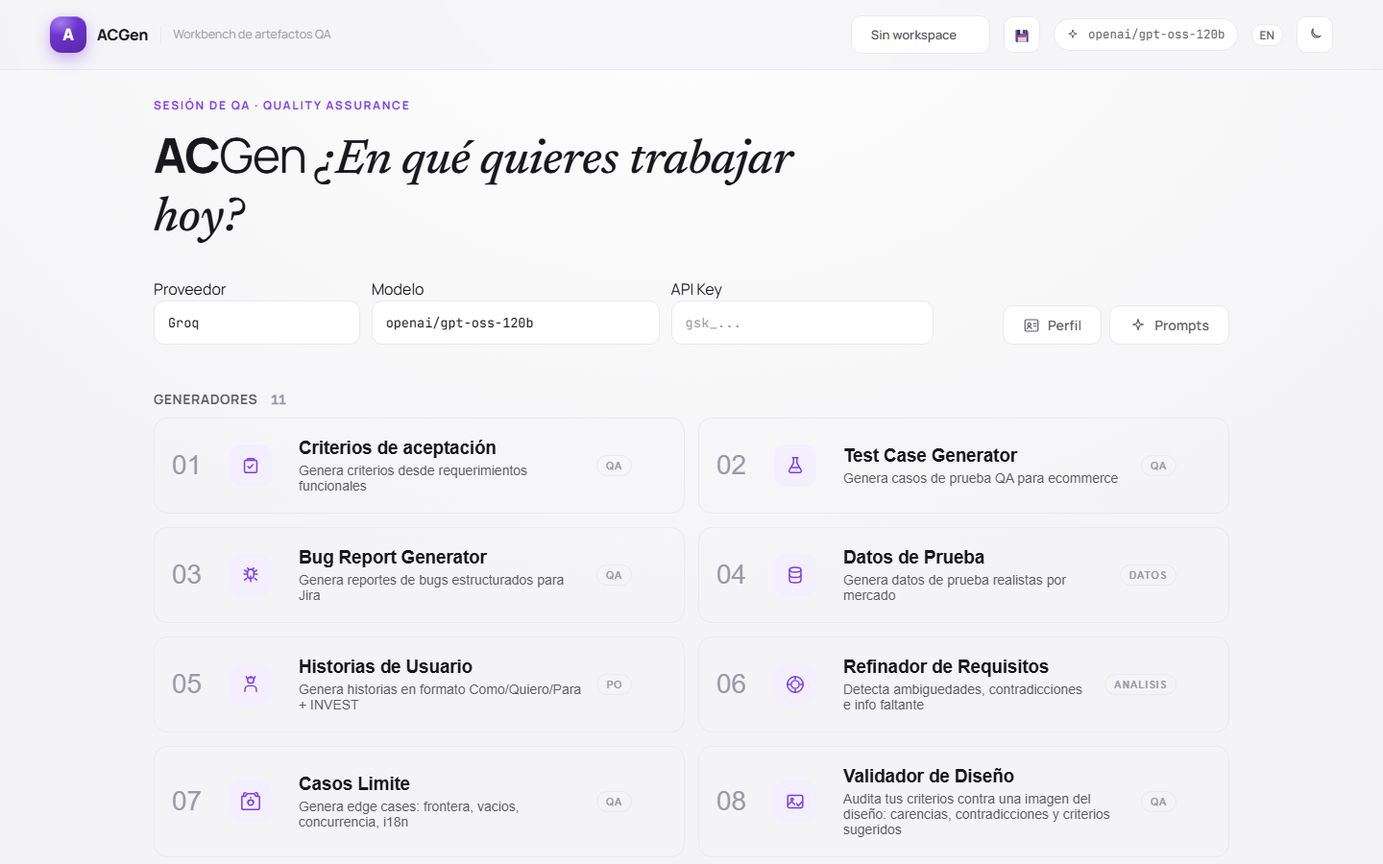
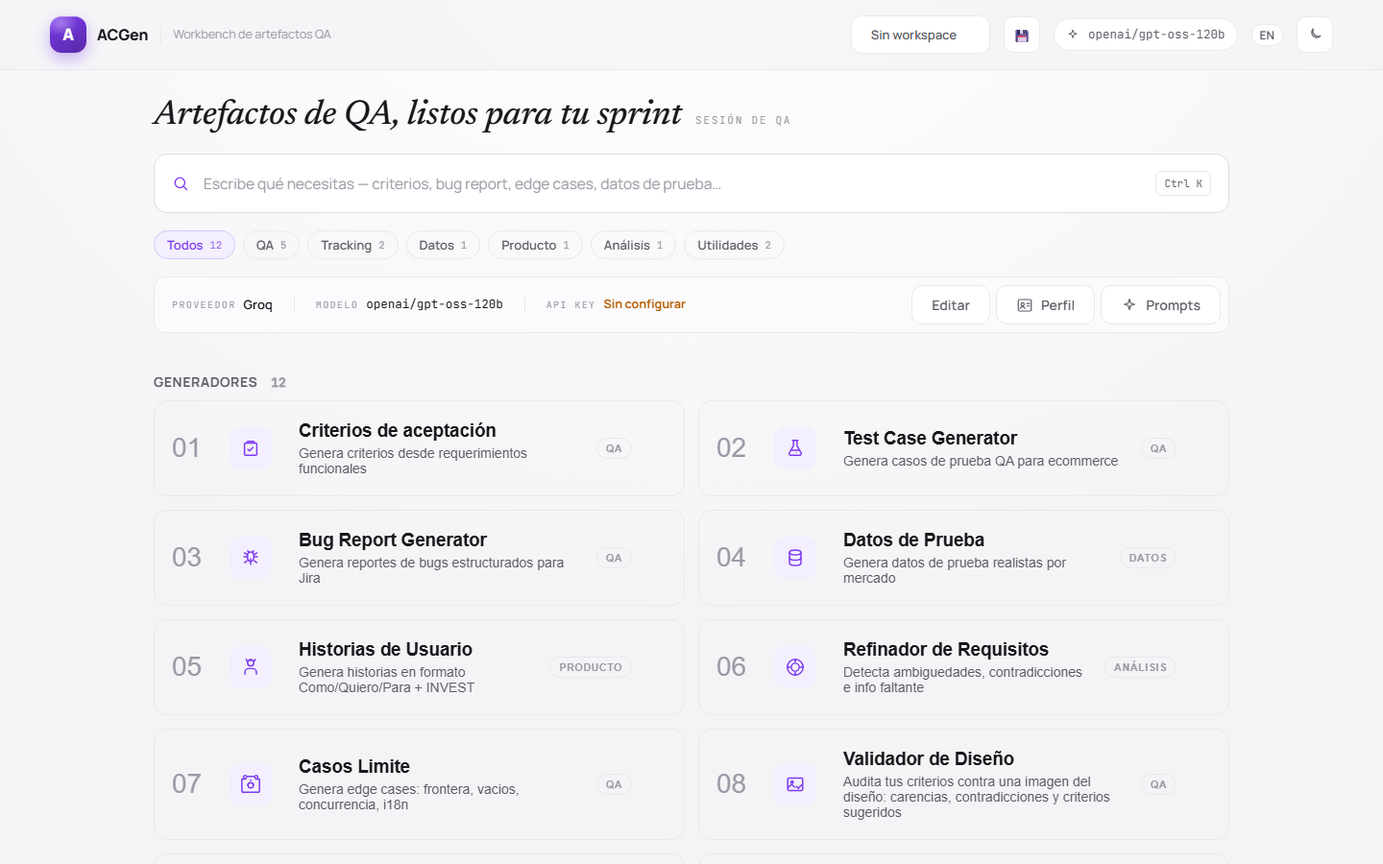
chore: auditoria de cierre — docs al dia, codigo muerto fuera
Sobre las cuatro PRs de la sesion (#45-#48) y sus dos fixes post-merge.
Dos auditores en paralelo (AGENTS.md, codigo muerto) mas revision propia
de README/GitHub/screenshot.

AGENTS.md llevaba 3 cifras desfasadas (total 713->714, shortcut.test.ts
3->4, DocLibrary.test.tsx 11->12) y 2 menciones de "11" que ya eran "12".
Contradiccion real en Known issues: la propia seccion decia desde el
2026-08-27 que dos pendientes se habian "caido de la lista por estar ya
resueltos" (markdown crudo del Refinador, prefill sin limpiar), pero las
dos entradas seguian escritas mas abajo, verbatim — verificado contra el
codigo que ambas SI estan resueltas, y retiradas. Las ultimas 5 filas de
Evolution history se habian apilado en orden cronologico inverso (mismo
patron de insercion que uso yo); reordenadas.

Codigo muerto: clave i18n landing.eyebrow huerfana en ambos idiomas
(se borro su regla .eyebrow en la #47, no la clave), 3 reglas CSS
huerfanas en un media query (br-compact-field*, td-form-row — deuda
vieja sin relacion con esta tanda), y dos iconos sin consumidor
Icon.eye/Icon.eyeOff (un toggle de contrasena que nunca se cableo).

README: cifra desfasada (713->714) y la captura de portada, que llevaba
desde el 19 de agosto — de antes del rediseno de la portada — regenerada
contra el diseno actual. GitHub: descripcion decia "eleven tools" sin
mencionar la Biblioteca de Documentacion; actualizada a doce.

714 tests, typecheck y lint verdes.
[…]

diff --git a/src/components/Icons.tsx b/src/components/Icons.tsx
@@ -53,19 +53,6 @@ export const Icon = {
       <path d="M5.5 12v6c0 1.55 2.9 2.8 6.5 2.8s6.5-1.25 6.5-2.8v-6" />
     </Svg>
   ),
-  eye: (p: SvgProps) => (
-    <Svg sw={1.6} {...p}>
-      <path d="M2.5 12S6 5.5 12 5.5 21.5 12 21.5 12 18 18.5 12 18.5 2.5 12 2.5 12Z" />
-      <circle cx="12" cy="12" r="3" />
-    </Svg>
-  ),
-  eyeOff: (p: SvgProps) => (
-    <Svg sw={1.6} {...p}>
-      <path d="M3 3l18 18" />
-      <path d="M10.6 6.1A11 11 0 0 1 12 6c6 0 9.5 6 9.5 6a17.7 17.7 0 0 1-2.9 3.5M6.4 7.6A17.7 17.7 0 0 0 2.5 12S6 18 12 18a10.8 10.8 0 0 0 3.9-.7" />
-      <path d="M9.9 9.9a3 3 0 0 0 4.2 4.2" />
-    </Svg>
-  ),
   sun: (p: SvgProps) => (
     <Svg {...p}>
       <circle cx="12" cy="12" r="3.8" />

diff --git a/src/App.css b/src/App.css
@@ -784,14 +784,6 @@ body {
   .br-root {
     min-height: 0;
   }
-  .br-compact-field,
-  .br-compact-field-wide {
-    min-width: 100%;
-    max-width: 100%;
-  }
-  .td-form-row {
-    grid-template-columns: 1fr;
-  }
 }
 
 /* === SPRINT TRACKER === */

diff --git a/AGENTS.md b/AGENTS.md
@@ -82,12 +82,12 @@ Unit tests with Vitest + React Testing Library. Hooks with non-trivial logic are
 | `src/components/DesignValidatorTool.test.tsx` | 11 — generates and renders the three report sections, Ctrl+Enter with everything ready triggers generation, sends a `ContentPart[]` with the text and the image to `streamWithGroq`, Generar stays disabled without an attached image, a model without vision support shows a warning, disables Generar and offers the model switch, the custom provider shows an "can't verify" warning but still allows generating, shows the privacy note (the image travels to the provider), Limpiar followed by Deshacer also restores the attached image, without an API key a vision provider with an attached image shows the missing-key warning and disables Generar, the image's base64 never touches localStorage, an invalid report shape shows the i18n error |
 
 | `src/components/ConverterTool.test.tsx` | 3 — swapping formats permutes the two selects without touching the text when there is no result yet, and moves the result into the source pane (clearing the right one) when there is; Copiar and Descargar stay disabled until there is a result |
-| `src/utils/shortcut.test.ts` | 3 — Command glyph on Mac and iPad, `Ctrl+Enter` on Windows, and the same fallback on any other platform |
+| `src/utils/shortcut.test.ts` | 4 — Command glyph on Mac and iPad, `Ctrl+Enter` on Windows, the same fallback on any other platform, and `paletteShortcutLabel` (same criterion: Cmd on Mac, Ctrl elsewhere) |
 | `src/components/EdgeCaseTool.test.tsx` | 5 — empty state names the three columns, Copiar tabla disabled with no results, the header groups the per-category count (one `.ec-cat` per distinct category, not per row), the copied TSV carries a header and collapses tabs/newlines inside a cell so one case stays one row, and the model badge only appears after generating |
-| `src/components/DocLibrary.test.tsx` | 11 — welcome empty state teaches the "Nombre - URL" paste, add persists to `acgen_doclinks`, save disabled without name or url, pasting "Nombre - URL" into the URL field fills both fields, the row is a real `<a target="_blank">` with the exact URL, category chips derive with counts and toggle, accent-insensitive search with the N/M counter, favorite floats the link to the top and the Favoritos chip filters, edit reuses the form and persists, delete confirms (cancel keeps the link), no-matches message distinct from the welcome state |
+| `src/components/DocLibrary.test.tsx` | 12 — welcome empty state teaches the "Nombre - URL" paste, add persists to `acgen_doclinks`, save disabled without name or url, pasting "Nombre - URL" into the URL field fills both fields, the row is a real `<a target="_blank">` with the exact URL, a URL saved in raw "Nombre - URL" form (name typed before pasting, so the autofill never fired) still shows the SnapLink label and opens the exact URL — the post-merge fix Jorge's own links needed, category chips derive with counts and toggle, accent-insensitive search with the N/M counter, favorite floats the link to the top and the Favoritos chip filters, edit reuses the form and persists, delete confirms (cancel keeps the link), no-matches message distinct from the welcome state |
 | `src/components/RefinerTool.test.tsx` | 8 — findings summary (4: counts the bullets under each heading in the format `REFINER_PROMPT` asks for, also recognises `###` headings, renders no card when the model answers in prose without categories, ignores declared categories left without bullets); plain-text output (2: markdown syntax is stripped without losing the bullets, and the summary still counts correctly once stripped); panes (2: the character counter tracks the requirement, Copiar only appears once there is an analysis) |
 
-**Total: 713 tests across 67 files.**
+**Total: 714 tests across 67 files.**
 
 Run `npm test` before committing when modifying hooks or services.
 
@@ -105,13 +105,13 @@ Run `npm test` before committing when modifying hooks or services.
 - **Streaming**: `streamWithGroq()` async generator yields tokens progressively. `useStreamingResponse()` hook manages state. Supports optional `anonymizeMap` for confidential mode and `baseUrl` for multi-provider.
 - **Design tokens**: `:root` invariants + `[data-theme="light"]` / `[data-theme="dark"]` in `App.css`. Key tokens: `--accent` (purple), `--bg`, `--surface`, `--border`, `--text`, `--text-2`, `--text-3`, `--radius` (16px), `--radius-sm` (11px), `--shadow-sm/md/lg`. Fonts: Manrope, Newsreader italic, JetBrains Mono.
 - **Theme**: light/dark via `[data-theme]` on `<html>`. Applied synchronously from localStorage before paint. Toggle in Header.
-- **i18n**: `I18nContext` + `useT()` hook. `es.json` and `en.json` (428 keys, exact parity, guarded by `src/i18n/keyParity.test.ts`). Language toggle in Header (ES|EN). Detects browser language on first visit. Missing keys fall back to Spanish. Parameter interpolation supported.
+- **i18n**: `I18nContext` + `useT()` hook. `es.json` and `en.json` (427 keys, exact parity, guarded by `src/i18n/keyParity.test.ts`). Language toggle in Header (ES|EN). Detects browser language on first visit. Missing keys fall back to Spanish. Parameter interpolation supported.
 - **SVG Icons**: `src/components/Icons.tsx` exports `Icon` object with named components. All 24x24, stroke-based, `currentColor`, `strokeWidth` 1.6.
 - **Shared CSS**: form fields, buttons, tables, badges, modal overlay, action bar, model badge, searchable select, sprint spreadsheet, error boundary fallback, toast, update banner in `App.css`. `.tool-head`/`.tool-head-aside` is the current header pattern for a tool screen (richer than the older `.tool-page-title`). The pre-redesign `.tool-split`/`.actions-col`/`.result-box`/`.tool-fill` family is **gone**: `EdgeCaseTool` was its last consumer and the Casos Limite redesign removed both the markup and the rules (including their `@media` overrides).
 - **Per-screen CSS families**, one per redesigned tool, each self-contained near the end of `App.css`: `.us-*` (Historia de Usuario), `.dv-*` (Validador), `.cv-*` (Conversor), `.sp-*` (Sprint list), `.rf-*` (Refinador), `.ec-*` (Casos Limite), `.ld-*` (portada/console), `.dl-*` (Doc Library), plus the older `.br-*` (Bug Report), `.td-*` (Datos de Prueba), `.tc-*` (Casos de Prueba) and `.criteria-*`. **The `@media (max-width: 1200px)` block must stay last in the file** — the base `.sidebar` / `.app-layout .container` rules live around line 1000 and win by cascade otherwise. New families go *before* it.
 - **PWA**: `vite-plugin-pwa` with `prompt` register type, manifest, icons (192+512), workbox static precache of JS/CSS/HTML/fonts. Update flow is manual (`virtual:pwa-register` wired in `useAppUpdate.ts` with `immediate: true`, not the plugin's auto-injected script): the new service worker installs but waits (`skipWaiting: false`, gated behind the `SKIP_WAITING` message); `<UpdateBanner>` appears when `onNeedRefresh` fires and only reloads when the user clicks "Actualizar". **`clientsClaim: true` is load-bearing**: in prompt mode the plugin doesn't set it, and without it the newly-activated SW never takes control of already-open pages, `controllerchange` never fires and the button silently does nothing (found live by Jorge). `reload()` is belt-and-suspenders: `updateServiceWorker(true)` + a `controllerchange` listener that reloads via `reloadPage()`, plus a 2s fallback reload for uncontrolled pages (e.g. after a hard refresh) — the button always behaves as a guaranteed reload. A background check (`registration.update()`) runs every hour so a tab left open still notices new deploys.
 
-## Tools (11 total)
+## Tools (12 total)
 
 ### Generar (Generate)
 
@@ -388,7 +388,7 @@ Run `npm test` before committing when modifying hooks or services.
 | `src/utils/highlight.tsx` | `highlightMatches()` / `containsMatch()` / `MARK_STYLE` — search highlighting in the Regression Tracker |
 | `src/components/Header.tsx` | Brand, WorkspacePicker, ProviderConfig, Model badge, theme toggle, language toggle |
 | `src/components/Sidebar.tsx` | Collapsible tool nav grouped by category, workspace name, profile editor link, prompt editor link |
-| `src/components/LandingScreen.tsx` | Console landing (2a): serif headline, Ctrl/Cmd+K search (accent-insensitive, Enter opens a single result), family filter chips with counts, status strip (provider · model · key state) with an Editar toggle that mounts `ProviderConfig` collapsed, 11-tool grid unchanged; `.ld-actions` (Editar/Perfil/Prompts) mounting `<ProfileEditor>`/`<PromptEditor>` |
+| `src/components/LandingScreen.tsx` | Console landing (2a): serif headline, Ctrl/Cmd+K search (accent-insensitive, Enter opens a single result), family filter chips with counts, status strip (provider · model · key state) with an Editar toggle that mounts `ProviderConfig` collapsed, 12-tool grid unchanged; `.ld-actions` (Editar/Perfil/Prompts) mounting `<ProfileEditor>`/`<PromptEditor>` |
 | `src/components/ErrorBoundary.tsx` | Class component with recoverable fallback |
 | `src/components/Icons.tsx` | SVG icon components |
 | `src/hooks/useLocalStorage.ts` | Generic localStorage hook with cross-instance/-tab sync |
@@ -467,11 +467,9 @@ Pending items, none blocking a release. Reverificados uno a uno contra el códig
 
 **Anteriores, todos confirmados vigentes:**
 
-- The Refiner still shows raw markdown (`###`, `**`) — out of scope by Jorge's explicit decision when the same issue was fixed for Historia de Usuario (2026-08-14, PR #24). `src/utils/stripMarkdown.ts` already exists and handles bold/headings/italics/inline-code/rules/tables; wiring it into `RefinerTool.tsx` the same way `UserStoryTool.tsx` does it would close this if ever requested. The project still has no true markdown *renderer* (no `marked`, no `react-markdown`, no `dangerouslySetInnerHTML`) — `stripMarkdown` strips the syntax rather than rendering it, which is what was asked for.
 - `src/config/demoData.ts` still carries pre-productization literals (`maria@qa`, `Test1234`, Pro/ES) instead of the profile's placeholders; there's no demo mode for `designvalidator` (would require a bundled sample image) — won't-fix for now.
-- `hasSignificantData()` (`backup.ts`) doesn't count a customized project profile or a prompt override as "significant data" — the backup reminder never fires for a user who has only touched those.
+- `hasSignificantData()` (`backup.ts`) doesn't count a customized project profile or a prompt override as "significant data" — the backup reminder never fires for a user who has only touched those. **Widened by PR #48**: it doesn't check `acgen_doclinks` either, so a user who only ever uses the Doc Library never gets the reminder even after saving dozens of links.
 - Vision calls (`designvalidator`) show only the button's spinner — the streamed text is buffered and unused until the response completes — which feels slow on large images.
-- `prefill` is never cleared in `App.tsx` after a chained navigation consumes it, so re-entering a tool after chaining re-injects the stale text (pre-existing, shared with testcase/edgecase, not new to this session).
 - `<PromptEditor>`'s heading is a hardcoded Spanish literal — `PromptEditor.tsx:61` renders `<h2>Editor de Prompts</h2>` rather than an i18n key, so an English user now clicks a button labelled "Prompts" on the landing and gets a Spanish-headed modal. Fixing it needs a new i18n key, which this branch was constrained from adding.
 - Neither `<ProfileEditor>` nor `<PromptEditor>` closes on `Escape` or traps focus — pre-existing in both, but reachable by more users now that the landing exposes them.
 
@@ -534,8 +532,10 @@ Pending items, none blocking a release. Reverificados uno a uno contra el códig
 | Rediseño de layout: botonera lateral, cajas de resultado y responsive (PR #33) | 2026-08-20 | Petición directa de Jorge, iterada pantalla a pantalla con capturas suyas. Las 7 herramientas de generación/refinado (Criterios, Casos de Prueba, Bug Report, Hist. de Usuario, Refinador, Casos Límite, Validador de Diseño) pasan de botonera horizontal centrada bajo las cajas a **columna vertical a la derecha de la caja de entrada** (`.tool-split` flex + `.actions-col` de 170px con botones a ancho completo), **Generar siempre en última posición** (orden: Confidencial → Ver ejemplo → Historial → Limpiar → Generar → loading-status). `.actions-bar` NO se tocó a propósito — Conversor, Datos de Prueba, SprintList y SprintDashboard la comparten y conservan su fila horizontal (verificado). Criterios aloja la columna al inicio de `.criteria-right` (centrada con `margin: 0 auto`, encima del panel de razonamiento condicional); Bug Report junto a la descripción, con los campos compactos arriba a lo ancho. **Caja de resultados siempre visible** (`.result-box`: borde/superficie como los campos, scroll interno) en las 4 herramientas que pintaban el output en flujo libre — placeholder i18n hasta que caen los resultados (streaming incluido en UserStory/Refiner; tabla en EdgeCase; informe en Validador; el ChainMenu queda dentro). 4 claves i18n nuevas ×2 idiomas (`*.outputPlaceholder`; 318 → 322, paridad mantenida). **Cero espacio muerto vertical**: raíz de cada tool en flex column con `min-height: calc(100vh - 128px)` (`.tool-fill`, `.br-root`, `.criteria-left`) y la caja de salida absorbe el sobrante con `flex: 1` — se adapta a cualquier alto de monitor en vez de usar alturas fijas. **Responsive coherente**: mínimos con `clamp()` en todas las cajas (en 1080p con zoom 125% de Windows ya no desborda), tope de 2100px centrado en `.app-layout .container` para ultrapanorámicos (3440×1440: adiós textareas de 3000px), breakpoint nuevo a 1200px (padding 20px, columna 150px, sidebar 190px) y el de 768px existente colapsa la columna a fila envuelta bajo la caja y resetea los `min-height` de viewport. **Gotcha de cascada CSS cazado en la auditoría de cierre, antes del commit**: el bloque `@media (max-width: 1200px)` estaba a mitad de fichero y sus reglas `.app-layout .container`/`.sidebar` eran letra muerta — las reglas base viven MÁS ABAJO en `App.css` (~línea 1000) con la misma especificidad y ganaban por orden; el bloque vive ahora al final del fichero con un comentario que explica por qué. Los tests no asertan estructura de botonera (consultan por nombre accesible), así que 658/658 pasaron sin tocar ninguno; typecheck y build de producción limpios. **Verificación en navegador** (dev y producción): 34/34 asertos de layout (columna presente y a la derecha, botones en vertical, Generar último, tools fuera de alcance intactas, colapso a 700px), 77/77 responsive (7 viewports × 7 tools: 3440/2560/1920/1536/1366/1024/768, sin scroll horizontal ni hueco muerto), y los 5 browser-checks del repo (38 asertos de trackers/streaming) re-corridos contra producción sin regresión, cero errores de consola. Bundle de producción `index-Cpjk9bkq.js`, idéntico al build local de main. |
 | Rediseño pantalla a pantalla, primera tanda (PRs #34-#38) | 2026-08-27 | Diseños aportados por Jorge como ficheros sueltos en su Desktop, integrados uno a uno. **Criterios** (#34): dos columnas, campos etiquetados a la izquierda y panel de resultado a toda altura a la derecha; diverge a propósito del patrón de botonera vertical de la #33, señalado y aceptado. Se cablearon por i18n 4 textos que venían hardcodeados en español y rompían la versión EN. **#35**: título de página en Criterios (`.tool-page-title`) y el panel pasa a llamarse "Resultado" para no duplicarlo. **Casos de Prueba** (#36): estrena `.tool-head` (h1 + subtítulo + badge de modelo), barra de acciones a todo el ancho y panel siempre visible con `th` sticky — `.tool-head` es desde aquí el patrón preferido. **Bug Report** (#37): tarjeta de entorno en grid con campos que conmutan por plataforma, panel del reporte a toda altura, breakpoint propio a 900px; más un fix de producto que Jorge detectó en vivo — la fecha del esqueleto salía `15-07-2026` porque el **prompt** por defecto pedía DD-MM-YYYY, no porque el componente la inyectara mal (ojo: los prompts admiten override en localStorage, así que a quien lo tuviera personalizado no le aplica hasta "Restaurar por defecto"). **Datos de Prueba** (#38): tarjeta de parámetros, panel con contador y export en cabecera. En los dos últimos apareció un patrón de defecto que conviene vigilar en cualquier drop: **los estados vacíos reutilizaban el placeholder de un campo de ENTRADA como subtítulo** ("Pega aquí información adicional…" en un panel de resultados); corregido con claves propias `*.emptyHint`. |
 | Rediseño pantalla a pantalla, segunda tanda (PRs #39-#44) | 2026-08-27 | **Historia de Usuario** (#39): modo Guiado/Texto libre, guiado por defecto. Se mergeó **con main en rojo** — el cambio de modo inicial rompió dos tests que buscaban por placeholder y por `getAllByRole('textbox')[0]`, y nadie lo vio hasta la sesión siguiente; arreglado en `d7aa948`. **Validador** (#40, #41): `.dv-*`, y tras revisarlo Jorge en local, reparto 3:2 criterios/imagen. **Conversor** (#42): barra origen→destino con intercambio, dos paneles, y funciones nuevas (intercambiar, copiar, descargar); se cableó `converter.formatText` porque "Texto plano" salía en español con la UI en inglés. **Sprint** (#43): el drop traía **solo CSS e i18n, sin componente**, así que `SprintList` se derivó del CSS; cambia el gesto de navegación (clic selecciona, "Abrir tablero" abre) y se extrajo `src/utils/ticketLink.ts`. Jorge pidió dos ajustes al verlo: `.sp-panel` dejó de estirarse (`flex: none`) porque dibujaba un marco medio vacío, y el hueco restante se rellenó con los paneles de Actividad reciente y Por squad. **Refinador** (#44): paneles Antes/Después, tarjeta de hallazgos, Copiar nuevo, y `stripMarkdown` cableado — cierra un pendiente que venía de la #24. **Constante en las seis: cada drop traía ficheros VIEJOS que habrían revertido lo ya desplegado** (el de #42 cinco, el de #43 su propio App.css pre-#42, el de #44 un snapshot pre-#43). Los ficheros del drop vienen con LF y los del repo con CRLF, así que `diff` a secas exagera el ruido a miles de líneas: usar `diff --strip-trailing-cr`, y comprobar tras aplicar que el diff de `App.css` tiene **cero líneas borradas**. 658 → **681 tests**, 335 → **388 claves** i18n. Bundle en producción `index-C6ThGCjI.js`. |
-| Biblioteca de Documentación (PR #48) | 2026-08-28 | Primera herramienta NUEVA desde la Fase 2 (view `doclibrary`, la 12ª), nacida de una consultoría de "qué le falta a un QA": Jorge dijo "utilizo mucha documentación como URL". 100% offline: enlaces {name, url, category, favorite} en `acgen_doclinks` — el backup la cubre solo porque snapshotea todo `acgen_*`. Diseño con el lenguaje ya fijado: `.tool-head`, chips estilo portada (**`.ld-chip` pasa a ser clase compartida** portada↔docs, anotado en Shared CSS), lista con acciones en hover, form de alta/edición único. Categorías = texto libre por enlace, chips derivados con recuento (sin lista que gestionar, YAGNI); favoritos arriba; búsqueda sin acentos (mismo `norm()` que la portada); pegar "Nombre - URL" en el campo URL rellena ambos vía `parseUrlCell` compartido. Icono `Icon.docs` nuevo (libro abierto). La portada pasa a 12 tarjetas (Utilidades 2) y Sidebar gana la entrada en SEGUIMIENTO. 702 → **713 tests / 67 ficheros** (`DocLibrary.test.tsx` 11, validado por mutación sobre la normalización de acentos; los 3 asertos de "11 tarjetas" del landing pasan a 12 — el de "Regression = nº 11" sigue válido porque la numeración es de catálogo y docs entra la 12ª), 410 → **428 claves** i18n. Verificado en navegador: 14/14 checks, cero errores de consola. |
-| Rediseño de la portada (PR #47) | 2026-08-28 | Diseño 2a "consola + tarjetas", y esta vez el drop venía CON spec (`implementacion-2a-landing.md`) que ya advertía qué ficheros eran viejos y pedía no copiar App.css ni los JSON enteros. La portada pasa a: titular serif de una línea + buscador con **Ctrl/Cmd+K** (sin acentos vía NFD, Enter abre si queda un único resultado, Escape limpia) + chips de familia con recuento (`family` sustituye a `tag` en `tools[]`) + tira de estado Proveedor · Modelo · API Key (Conectada/Sin configurar) con **Editar** que pliega/despliega el `ProviderConfig` real. El grid de 11 tarjetas no cambia; el número de tarjeta es su posición en el catálogo, no en la lista filtrada. Perfil y Prompts siguen en la portada (ahora en `.ld-actions`) y el estado de sus modales sigue local a `LandingScreen`. `paletteShortcutLabel()` se suma a `shortcut.ts` (mismo criterio que el de generar). **Borrada la familia CSS de la portada vieja** (`.hero`/`.eyebrow`/`.hero-title`/`.greet-serif`/`.config-strip`/`.config-actions`, la portada era su único consumidor) y la clave huérfana `landing.greeting`; el comentario del bloque `.ld-*` del drop decía que `.config-strip` "sigue vivo" y se corrigió. El test del chip Tracking del drop era ambiguo (`getByRole` con /Tracking/ choca con las pills de las dos tarjetas de tracking) — anclado a `.ld-chip`. El drop volvía a traer viejos (revertía el `handleCreate` de la #46 y resucitaba `.tool-split`) y su bloque `.ld-*` venía tras el breakpoint de 1200px — tercera vez, insertado antes. 690 → **702 tests** (LandingScreen.test.tsx 8 → 19, shortcut.test.ts 3 → 4), 398 → **410 claves** (+13 `landing.*`, −`landing.greeting`). README: el "Primer uso" apuntaba a una configuración superior que ya no está siempre visible, y la sección de Regression aún describía el auto-despliegue de tarjetas pre-#46 — ambos corregidos. Verificado en navegador: 13/13 checks (Ctrl+K, acentos, Enter, numeración 10/11 al filtrar, Editar, Conectada, Perfil, tema claro, 800px), cero errores de consola. |
-| Rediseño del Regression Tracker (PR #46) | 2026-08-28 | La pantalla que faltaba de verdad (la #45 cerró las de generación; esta era la 12ª). Lista de tarjetas acordeón → **rail de versiones + panel de detalle** (`.rg-*`), el mismo patrón que la lista del Sprint: pestañas de plataforma con `role="tab"`, buscador y alta en el rail; el detalle renderiza `RegressionCard` con el nuevo `variant="panel"` (nunca se pliega, `th` sticky, resumen de estados contando los valores libres de `status`). La variante `card` sobrevive intacta para el historial de archivadas. **Selección por plataforma** (`selectedIds`): cambiar de pestaña y volver conserva la versión enfocada; crear una versión limpia la selección para que el detalle caiga en la recién creada (fallo cazado por el browser-check, no por los tests: con otra versión seleccionada, la nueva no se enfocaba). Desaparecen el toggle de tickets, el botón × del buscador (`regression.searchClear` borrada, huérfana) y el ancho inline de 440px. El drop trajo **14 de 20 ficheros viejos** (habrían revertido #41-#45, mi fix del atajo incluido) y su bloque `.rg-*` venía DESPUÉS del breakpoint de 1200px — al revisarlo se descubrió que la #45 había cometido el mismo error con `.ec-*` y se corrigió allí. `tracker-readonly-paste.mjs` adaptado (pulsaba el toggle extinto — la trampa de la #43, misma lección). 689 → **690 tests** (RegressionTracker.test.tsx 26 → 27: −1 del ancho 440px, +2 de selección del rail, resto adaptados a los roles/gestos nuevos), 395 → **398 claves** i18n. Verificado en navegador: 14/14 checks, cero errores de consola. |
-| Rediseño de Casos Límite (PR #45) | 2026-08-28 | Última pantalla pendiente de la segunda tanda. Entrada compacta arriba con la botonera a su derecha y la tabla a todo el ancho sobre la altura restante; la cabecera del panel suma recuento por categoría y **Copiar tabla** en TSV. Cierra la familia CSS pre-rediseño: `EdgeCaseTool` era el último consumidor de `.tool-split`/`.actions-col`/`.result-box`/`.tool-fill`, así que se borran las reglas base **y sus tres overrides en `@media`** (el de 1200px dejó de mencionar la columna de acciones en su comentario). **El drop volvió a traer ficheros viejos, esta vez 14 de 18**: `SprintList.tsx`+su test habrían revertido la #43 entera, `RefinerTool.tsx` el `stripMarkdown` de la #44, `ConverterTool.tsx` el `converter.formatText` de la #42, `DesignValidatorTool.tsx` el reparto 3:2 de la #41, y `App.css` reintroducía las 12 reglas huérfanas que borró la auditoría de cierre mientras borraba las 155 líneas de `.sp-*`. Solo se aplicaron `EdgeCaseTool.tsx`, el bloque `.ec-*` del CSS y las 7 claves i18n. De paso, las claves `edgecase.*` heredadas iban sin tildes ("Categoria", "casos limite") mientras el resto del fichero sí las lleva: corregidas, porque la cabecera de la tabla y el hint nuevo mostraban "Categoria" y "Categoría" a la vez. 681 → **686 tests** en 65 ficheros, 388 → **395 claves** i18n. Verificado en navegador con Playwright (7 filas, 6 categorías, TSV al portapapeles, responsive a 820px, cero errores de consola, cero clases legacy en el DOM). |
 | Auditoría de cierre de sesión | 2026-08-27 | Tres auditores en paralelo (AGENTS.md, README, código muerto) más una pasada de higiene de git. **AGENTS.md llevaba once PRs sin actualizar** (desde la #33): totales de tests e i18n desfasados en cinco sitios, el Conversor y la lista de Sprint descritos como estaban antes del rediseño, y **dos pendientes de "Known issues" que llevaban días resueltos en producción** — el markdown crudo del Refinador y el `prefill` que no se limpiaba, este último contradicho por la propia doc treinta líneas más abajo. **README**: `cd ACGen/acgen` en las instrucciones de clonado **no funciona** (la raíz del repo *es* `acgen/`, así que quien clonaba se estrellaba en el primer comando), id de modelo mal (`gemini-2.5-flash` → `google/gemini-2.5-flash`), y cinco pantallas descritas como estaban antes. Se añadieron además el párrafo de problema, el bloque de privacidad, las features que nunca se documentaron (streaming, modo demo, prompts editables, Ctrl+Enter, browser-checks) y `npm run typecheck`. **Código muerto**: 12 reglas CSS huérfanas de los rediseños (~72 líneas), 5 claves i18n sin consumidor, los assets del andamiaje de Vite (`react.svg`, `vite.svg`) y cuatro `className` inertes — uno de ellos, `className="btn"` en `ErrorBoundary.tsx`, **era un bug visual real**: no existe ninguna regla `.btn` a secas, así que el botón de reintento se renderizaba sin estilo. También se arregló `tracker-readonly-paste.mjs`, que se había quedado fuera de la adaptación de la #43 por no llevar "sprint" en el nombre y fallaba por strict mode antes del primer aserto. GitHub: descripción del repo (estaba vacía), homepage apuntando al dominio de la migración en vez de a `acgen.vercel.app`, y diez topics. |
+| Rediseño de Casos Límite (PR #45) | 2026-08-28 | Última pantalla pendiente de la segunda tanda. Entrada compacta arriba con la botonera a su derecha y la tabla a todo el ancho sobre la altura restante; la cabecera del panel suma recuento por categoría y **Copiar tabla** en TSV. Cierra la familia CSS pre-rediseño: `EdgeCaseTool` era el último consumidor de `.tool-split`/`.actions-col`/`.result-box`/`.tool-fill`, así que se borran las reglas base **y sus tres overrides en `@media`** (el de 1200px dejó de mencionar la columna de acciones en su comentario). **El drop volvió a traer ficheros viejos, esta vez 14 de 18**: `SprintList.tsx`+su test habrían revertido la #43 entera, `RefinerTool.tsx` el `stripMarkdown` de la #44, `ConverterTool.tsx` el `converter.formatText` de la #42, `DesignValidatorTool.tsx` el reparto 3:2 de la #41, y `App.css` reintroducía las 12 reglas huérfanas que borró la auditoría de cierre mientras borraba las 155 líneas de `.sp-*`. Solo se aplicaron `EdgeCaseTool.tsx`, el bloque `.ec-*` del CSS y las 7 claves i18n. De paso, las claves `edgecase.*` heredadas iban sin tildes ("Categoria", "casos limite") mientras el resto del fichero sí las lleva: corregidas, porque la cabecera de la tabla y el hint nuevo mostraban "Categoria" y "Categoría" a la vez. 681 → **686 tests** en 65 ficheros, 388 → **395 claves** i18n. Verificado en navegador con Playwright (7 filas, 6 categorías, TSV al portapapeles, responsive a 820px, cero errores de consola, cero clases legacy en el DOM). |
+| Rediseño del Regression Tracker (PR #46) | 2026-08-28 | La pantalla que faltaba de verdad (la #45 cerró las de generación; esta era la 12ª). Lista de tarjetas acordeón → **rail de versiones + panel de detalle** (`.rg-*`), el mismo patrón que la lista del Sprint: pestañas de plataforma con `role="tab"`, buscador y alta en el rail; el detalle renderiza `RegressionCard` con el nuevo `variant="panel"` (nunca se pliega, `th` sticky, resumen de estados contando los valores libres de `status`). La variante `card` sobrevive intacta para el historial de archivadas. **Selección por plataforma** (`selectedIds`): cambiar de pestaña y volver conserva la versión enfocada; crear una versión limpia la selección para que el detalle caiga en la recién creada (fallo cazado por el browser-check, no por los tests: con otra versión seleccionada, la nueva no se enfocaba). Desaparecen el toggle de tickets, el botón × del buscador (`regression.searchClear` borrada, huérfana) y el ancho inline de 440px. El drop trajo **14 de 20 ficheros viejos** (habrían revertido #41-#45, mi fix del atajo incluido) y su bloque `.rg-*` venía DESPUÉS del breakpoint de 1200px — al revisarlo se descubrió que la #45 había cometido el mismo error con `.ec-*` y se corrigió allí. `tracker-readonly-paste.mjs` adaptado (pulsaba el toggle extinto — la trampa de la #43, misma lección). 689 → **690 tests** (RegressionTracker.test.tsx 26 → 27: −1 del ancho 440px, +2 de selección del rail, resto adaptados a los roles/gestos nuevos), 395 → **398 claves** i18n. Verificado en navegador: 14/14 checks, cero errores de consola. |
+| Rediseño de la portada (PR #47) | 2026-08-28 | Diseño 2a "consola + tarjetas", y esta vez el drop venía CON spec (`implementacion-2a-landing.md`) que ya advertía qué ficheros eran viejos y pedía no copiar App.css ni los JSON enteros. La portada pasa a: titular serif de una línea + buscador con **Ctrl/Cmd+K** (sin acentos vía NFD, Enter abre si queda un único resultado, Escape limpia) + chips de familia con recuento (`family` sustituye a `tag` en `tools[]`) + tira de estado Proveedor · Modelo · API Key (Conectada/Sin configurar) con **Editar** que pliega/despliega el `ProviderConfig` real. El grid de 11 tarjetas no cambia; el número de tarjeta es su posición en el catálogo, no en la lista filtrada. Perfil y Prompts siguen en la portada (ahora en `.ld-actions`) y el estado de sus modales sigue local a `LandingScreen`. `paletteShortcutLabel()` se suma a `shortcut.ts` (mismo criterio que el de generar). **Borrada la familia CSS de la portada vieja** (`.hero`/`.eyebrow`/`.hero-title`/`.greet-serif`/`.config-strip`/`.config-actions`, la portada era su único consumidor) y la clave huérfana `landing.greeting`; el comentario del bloque `.ld-*` del drop decía que `.config-strip` "sigue vivo" y se corrigió. El test del chip Tracking del drop era ambiguo (`getByRole` con /Tracking/ choca con las pills de las dos tarjetas de tracking) — anclado a `.ld-chip`. El drop volvía a traer viejos (revertía el `handleCreate` de la #46 y resucitaba `.tool-split`) y su bloque `.ld-*` venía tras el breakpoint de 1200px — tercera vez, insertado antes. 690 → **702 tests** (LandingScreen.test.tsx 8 → 19, shortcut.test.ts 3 → 4), 398 → **410 claves** (+13 `landing.*`, −`landing.greeting`). README: el "Primer uso" apuntaba a una configuración superior que ya no está siempre visible, y la sección de Regression aún describía el auto-despliegue de tarjetas pre-#46 — ambos corregidos. Verificado en navegador: 13/13 checks (Ctrl+K, acentos, Enter, numeración 10/11 al filtrar, Editar, Conectada, Perfil, tema claro, 800px), cero errores de consola. |
+| Biblioteca de Documentación (PR #48) | 2026-08-28 | Primera herramienta NUEVA desde la Fase 2 (view `doclibrary`, la 12ª), nacida de una consultoría de "qué le falta a un QA": Jorge dijo "utilizo mucha documentación como URL". 100% offline: enlaces {name, url, category, favorite} en `acgen_doclinks` — el backup la cubre solo porque snapshotea todo `acgen_*`. Diseño con el lenguaje ya fijado: `.tool-head`, chips estilo portada (**`.ld-chip` pasa a ser clase compartida** portada↔docs, anotado en Shared CSS), lista con acciones en hover, form de alta/edición único. Categorías = texto libre por enlace, chips derivados con recuento (sin lista que gestionar, YAGNI); favoritos arriba; búsqueda sin acentos (mismo `norm()` que la portada); pegar "Nombre - URL" en el campo URL rellena ambos vía `parseUrlCell` compartido. Icono `Icon.docs` nuevo (libro abierto). La portada pasa a 12 tarjetas (Utilidades 2) y Sidebar gana la entrada en SEGUIMIENTO. 702 → **713 tests / 67 ficheros** (`DocLibrary.test.tsx` 11, validado por mutación sobre la normalización de acentos; los 3 asertos de "11 tarjetas" del landing pasan a 12 — el de "Regression = nº 11" sigue válido porque la numeración es de catálogo y docs entra la 12ª), 410 → **428 claves** i18n. Verificado en navegador: 14/14 checks, cero errores de consola. |
+| Biblioteca de Documentación: dos ajustes post-merge de Jorge | 2026-08-28 | Probado en local por Jorge, dos retoques sobre la PR #48 ya mergeada. **(1)** Tarjeta de la portada acortada a "Documentación" / "Tus enlaces de documentación organizados" (`e60e899`) — la anterior era la única de las 12 que partía a dos líneas. **(2)** Bug real que encontró probando con sus propios enlaces (`3939f7f`): pegó el texto SnapLink completo ("Nombre - URL") en el campo URL con el nombre YA escrito, así que el autorrelleno — que solo actúa con el nombre vacío — no saltó, la URL quedó guardada en crudo y la fila se pintaba en dos líneas con la URL entera debajo. Arreglado parseando con `parseUrlCell` **al pintar, no al guardar**, así que los enlaces que ya tenía guardados en crudo se arreglaron solos al recargar, sin migración. `DocLibrary.test.tsx` 11 → 12. Verificado en prod con su propio caso real (3 enlaces, incluida su URL larga de SharePoint) más 38/38 browser-checks del repo, bundle `index-Crk7RdAY.js`. |
+| Auditoría de cierre de sesión | 2026-08-28 | Dos auditores en paralelo (AGENTS.md, código muerto) más revisión propia de README/GitHub/screenshot, sobre las cuatro PRs de la sesión (#45-#48) más sus dos fixes post-merge. **AGENTS.md llevaba 3 cifras desfasadas** (total 713→714, `shortcut.test.ts` 3→4 tras `paletteShortcutLabel`, `DocLibrary.test.tsx` 11→12 tras el fix de SnapLink) y 2 menciones de "11" que debían decir "12" (cabecera "Tools" y la fila de key-files de `LandingScreen.tsx`). **Known issues, contradicción real cazada por partida doble** (por mí y por el auditor, cada uno sin ver el trabajo del otro): la propia sección decía desde el 2026-08-27 que el markdown crudo del Refinador y el `prefill` sin limpiar se habían "caído de la lista por estar ya resueltos" — pero las dos entradas seguían escritas más abajo, verbatim, contradiciendo su propia frase; verificado contra el código (`RefinerTool.tsx` sí usa `stripMarkdown`, `App.tsx:116` sí limpia el `prefill`) y retiradas. Ampliado el hueco conocido de `hasSignificantData()`: tampoco cuenta `acgen_doclinks`, así que un usuario que solo use la Biblioteca de Documentación nunca ve el recordatorio de backup. **Las últimas 5 filas de esta tabla se habían ido apilando en orden CRONOLÓGICO INVERSO** — cada PR de la sesión insertó su fila justo antes de la anterior más reciente (el mismo patrón de código que uso yo mismo para editar esta tabla), así que la más nueva quedaba primero; reordenadas. Relevante porque la línea de arriba de esta sección dice literalmente que "el bundle desplegado es el que nombra la última fila" — con el orden roto, ningún hash reciente estaba en esa posición. **Código muerto**: clave i18n `landing.eyebrow` huérfana en ambos idiomas (se borró su regla `.eyebrow` en la PR #47 pero no la clave que la llenaba), 3 reglas CSS huérfanas dentro de un media query — `.br-compact-field`, `.br-compact-field-wide`, `.td-form-row` (deuda vieja, sin relación con los rediseños de esta tanda), y dos iconos sin consumidor `Icon.eye`/`Icon.eyeOff` (un toggle de mostrar/ocultar contraseña que nunca se cableó — el campo de API key es un `type="password"` simple). 714 → **714 tests** (sin cambio: la limpieza no toca lógica), 428 → **427 claves** i18n (paridad intacta). **README**: un recuento desfasado (713→714) y la captura de portada, que llevaba desde el 19 de agosto — de ANTES del rediseño de la #47, con el hero viejo y 11 tarjetas — regenerada contra el diseño actual. **GitHub**: la descripción decía "eleven tools" y no mencionaba la Biblioteca de Documentación; actualizada a doce. Homepage y topics ya estaban al día. Verificación final: 714 tests / 67 ficheros, typecheck y lint limpios, bundle en producción `index-Pjrb5hGH.js`. |

diff --git a/README.md b/README.md
@@ -28,7 +28,7 @@ No hay backend, ni base de datos, ni cuenta de usuario. **Tu API key se guarda s
 - **Casos Limite**: Genera edge cases agrupados por categoria (valores frontera, estados vacios, concurrencia, i18n, permisos, red).
 - **Conversor de Formatos**: Convierte texto entre Gherkin, Markdown, Jira wiki, Azure DevOps y texto plano, con intercambio de formatos en un clic y descarga del resultado.
 - **Sprint Tracker**: Hoja de calculo offline por sprint con pestanas y columnas configurables (5 pestanas y sus columnas por defecto: Resueltos, Creados, ReOpen, Prioridad Alta, JSD): filas reordenables por drag-and-drop, busqueda con debounce, columnas redimensionables, enlaces a tickets (Ctrl+click), pegado desde SnapLink y archivado historico. Pestanas y columnas se renombran, anaden y ocultan desde el boton "Pestanas y columnas"; ocultar no borra el dato, solo deja de mostrarlo. La portada resume el sprint en curso —dia, filas por pestana, actividad reciente y reparto por squad— junto a una lista lateral con buscador.
-- **Regression Tracker**: Lista de regresiones versionadas (Version + URL + Fecha) por plataforma (APPS, WEB por defecto, ampliable), reordenables por drag-and-drop. La pantalla se divide en un rail de versiones a la izquierda (pestanas de plataforma, buscador y alta) y un panel de detalle a la derecha con la tabla de tickets de la version seleccionada — cabecera fija, columnas redimensionables y resumen de estados; cada plataforma recuerda que version estabas mirando. Tanto las plataformas como las columnas de la tabla (por defecto Ticket, Fecha, Prioridad, Creador, Squad, Status) son configurables desde el boton "Columnas": se pueden renombrar, anadir campos o plataformas nuevas y ocultar los que no se usen; ocultar no borra el dato, solo deja de mostrarlo. Buscador con resalte de coincidencias sobre versiones, enlaces y tickets. Enlaces arbitrarios (SharePoint, Zephyr, Confluence...) muestran solo el nombre en reposo y el valor completo al editar; Ctrl+click abre la URL exacta. Archivado individual por regresion, con historial mixto (los snapshots antiguos del tablero libre se siguen abriendo en solo lectura).
+- **Regression Tracker**: Lista de regresiones versionadas (Version + URL + Fecha) por plataforma (APPS, WEB por defecto, ampliable), reordenables por drag-and-drop. La pantalla se divide en un rail de versiones a la izquierda (pestanas de plataforma, buscador y alta) y un panel de detalle a la derecha con la tabla de tickets de la version seleccionada — cabecera fija, columnas redimensionables y resumen de estados; cada plataforma recuerda que version estabas mirando. Tanto las plataformas como las columnas de la tabla (por defecto Ticket, Fecha, Prioridad, Creador, Squad, Status) son configurables desde el boton "Columnas": se pueden renombrar, anadir campos o plataformas nuevas y ocultar los que no se usen; ocultar no borra el dato, solo deja de mostrarlo. Buscador con resalte de coincidencias sobre versiones, enlaces y tickets. Enlaces arbitrarios (SharePoint, Zephyr, Confluence...) muestran solo el nombre en reposo y el valor completo al editar; Ctrl+click abre la URL exacta. Archivado individual por regresion, con historial mixto (los snapshots antiguos del tablero libre se siguen abriendo en solo lectura).
 - **Biblioteca de Documentacion**: tus enlaces de documentacion (Confluence, Jira, hojas de calculo, dashboards) organizados en local: categorias libres con chips de filtro, favoritos que suben arriba, buscador sin acentos y alta rapida pegando "Nombre - URL".
 - **Modo confidencial**: anonimiza automaticamente datos sensibles (emails, telefonos, nombres...) antes de enviarlos al proveedor de IA, con revision y edicion de las sustituciones antes de confirmar.
 - **Multi-proveedor**: Groq (por defecto), OpenRouter o cualquier endpoint compatible con OpenAI (Custom), configurable por herramienta.
@@ -105,7 +105,7 @@ Editable desde el sidebar o, en la portada, desde la franja de configuracion, de
 | Frontend | React 18, TypeScript, Vite 5 |
 | LLM API | Groq (por defecto), OpenRouter, o cualquier endpoint compatible con OpenAI |
 | PDF | jsPDF + jspdf-autotable |
-| Tests | Vitest + React Testing Library (713 tests / 67 files) + 5 browser-checks con Playwright (38 asertos contra el build de produccion) |
+| Tests | Vitest + React Testing Library (714 tests / 67 files) + 5 browser-checks con Playwright (38 asertos contra el build de produccion) |
 | PWA | vite-plugin-pwa |
 | Estilos | CSS personalizado (sin framework) |
 
